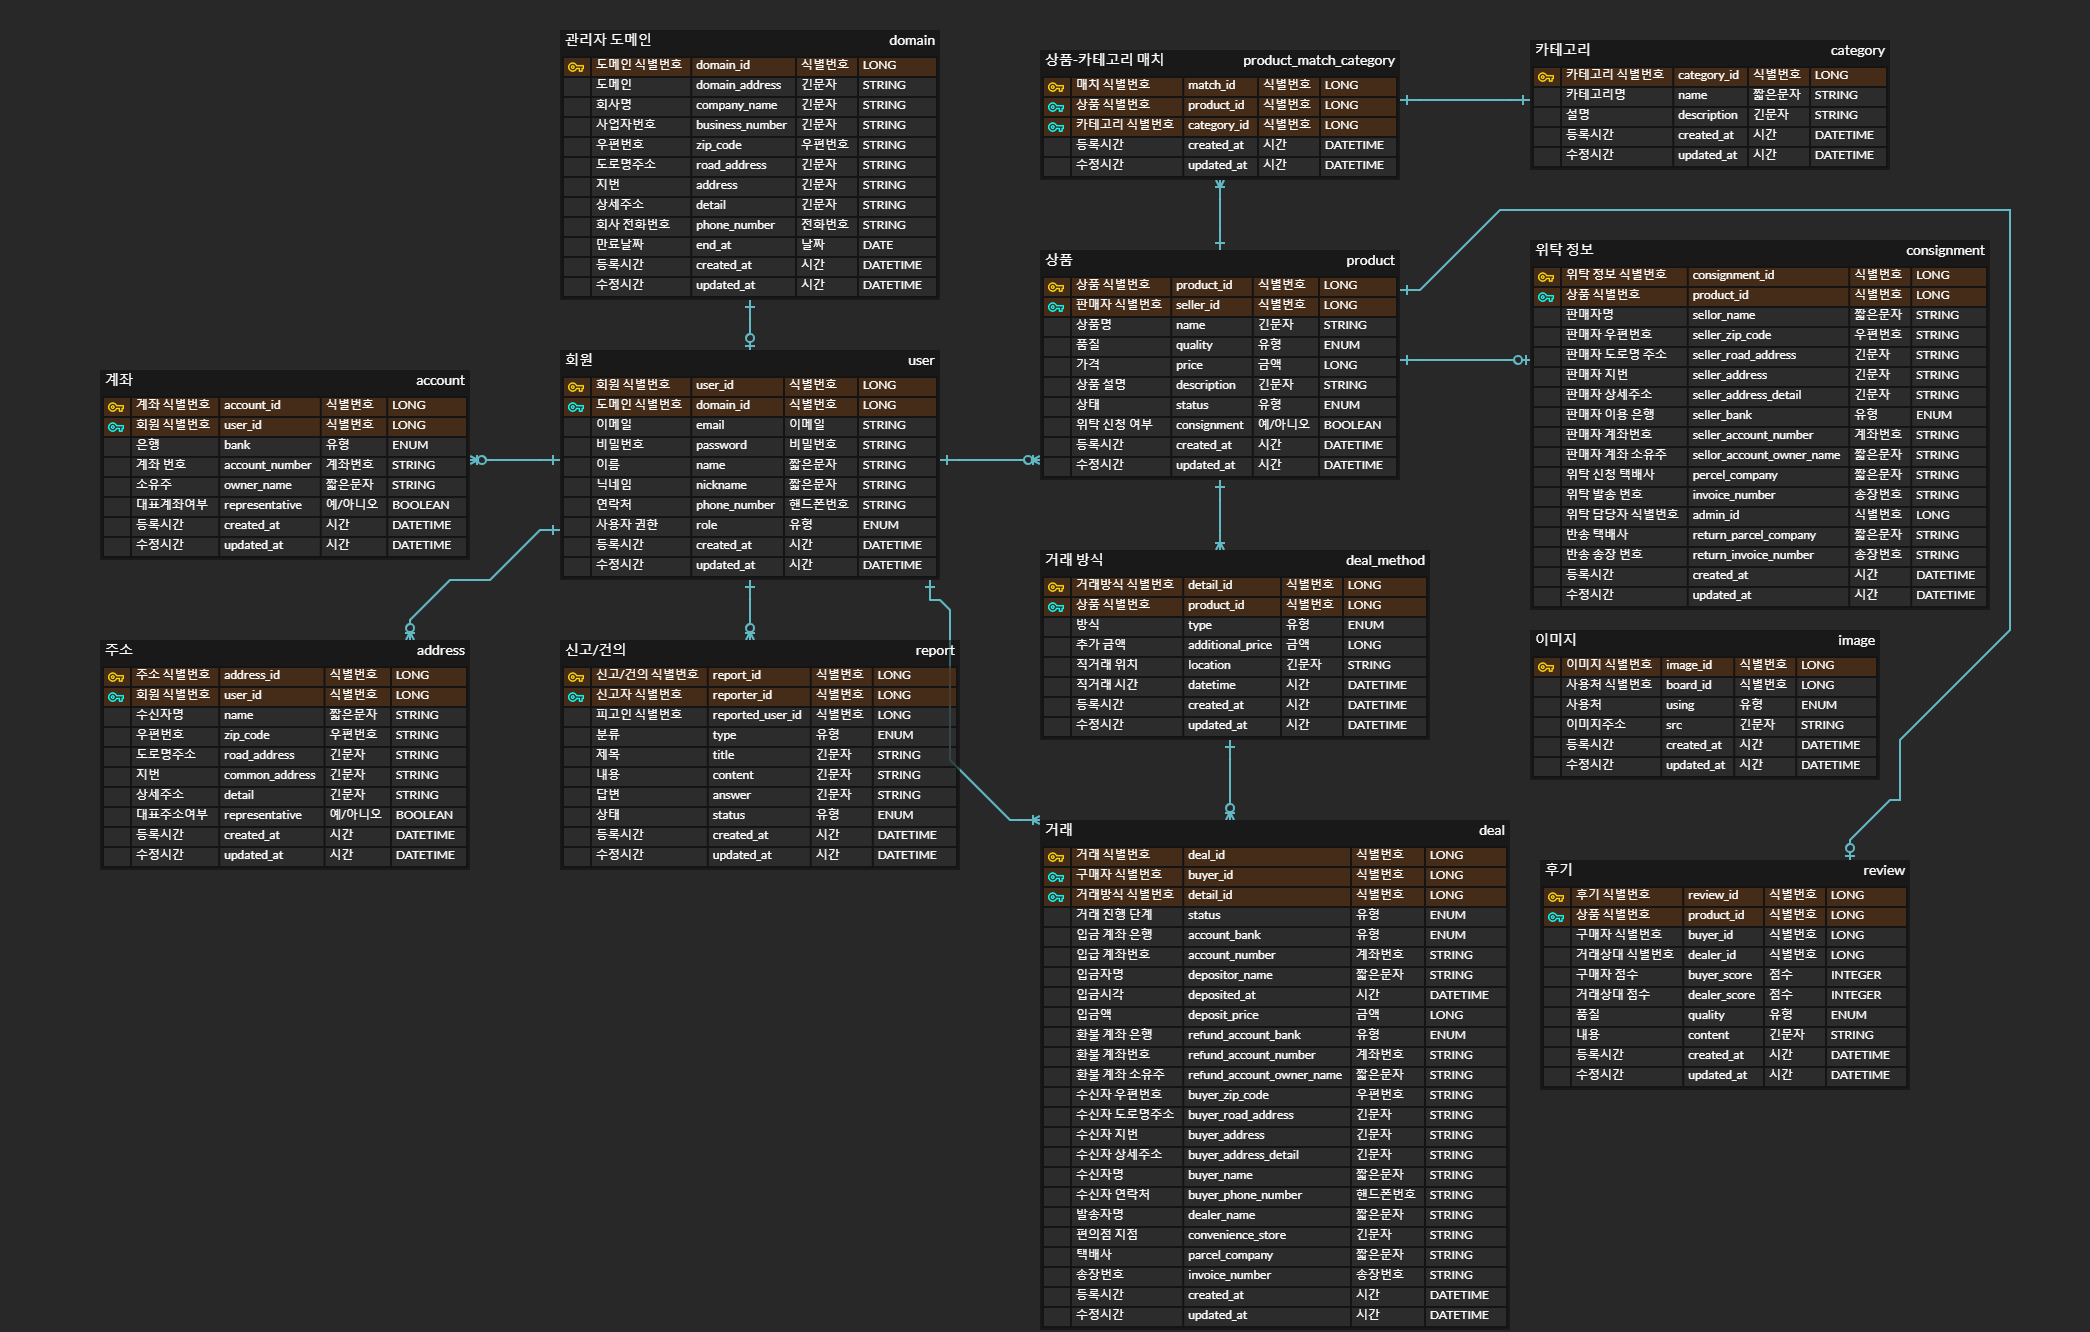
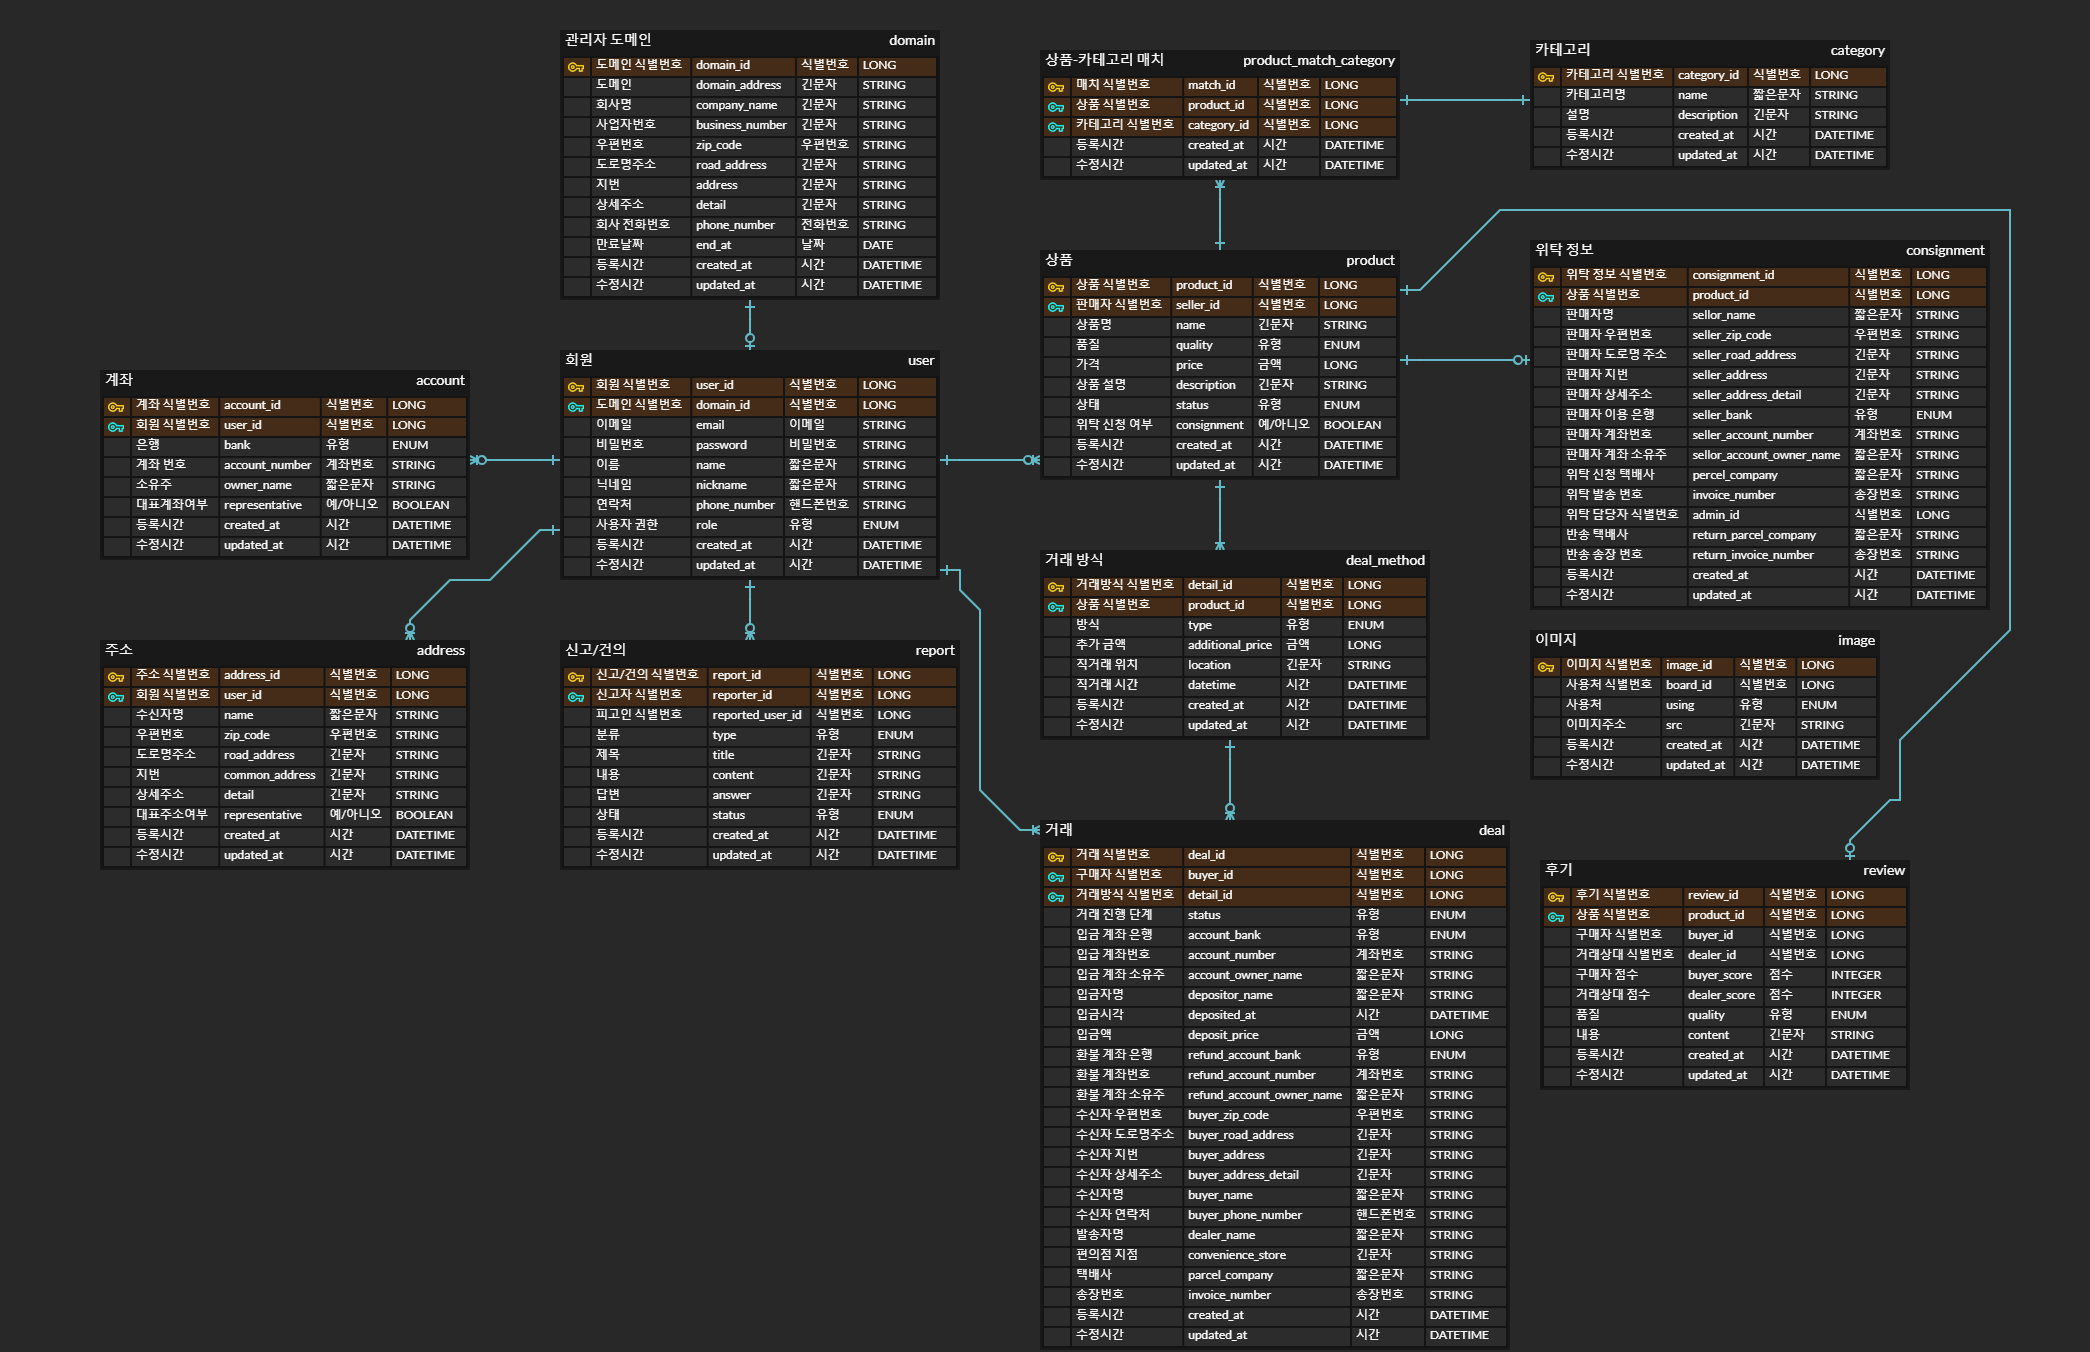
docs: 빠진 엔티티 정보 문서에 추가

diff --git a/README.md b/README.md
@@ -248,15 +248,15 @@
             - 직거래 위치, 시간
         - 거래 방식이 택배인 경우 추가 조회 정보:
             - 판매 담당자의 계좌 번호 리스트(입금 확인(CONFIRMED), 배송 진행중(SHIPPING), 환불(REFUNDED) 상태에선 null 반환)
-            - 입금 정보(입금 계좌 은행, 입금 계좌번호, 입금자명, 입금시각, 입금액)
+            - 입금 정보(입금 계좌 은행, 입금 계좌번호, 입금 계좌 소유주, 입금자명, 입금시각, 입금액)
             - 입금 완료(DEPOSITED), 입금 확인(CONFIRMED), 배송 진행중(SHIPPING) 상태일 시 환불 정보(환불 계좌 은행, 환불 계좌번호, 환불 계좌 소유주)
-            - 입금 확인(CONFIRMED), 배송 진행중(SHIPPING) 상태일 시 수신 정보(수신자명, 수신자 우편번호, 수신자 도로명주소, 수신자 지번, 수신자 상세주소, 수신자 연락처)
+            - 입금 완료(DEPOSITED), 입금 확인(CONFIRMED), 배송 진행중(SHIPPING) 상태일 시 수신 정보(수신자명, 수신자 우편번호, 수신자 도로명주소, 수신자 지번, 수신자 상세주소, 수신자 연락처)
             - 발송 정보(발송자명, 택배사, 송장번호)
         - 거래 방식이 반값 택배인 경우 추가 조회 정보:
             - 판매 담당자의 계좌 번호 리스트(입금 확인(CONFIRMED), 배송 진행중(SHIPPING), 환불(REFUNDED) 상태에선 null 반환)
-            - 입금 정보(입금 계좌 은행, 입금 계좌번호, 입금자명, 입금시각, 입금액)
+            - 입금 정보(입금 계좌 은행, 입금 계좌번호, 입금 계좌 소유주, 입금자명, 입금시각, 입금액)
             - 입금 완료(DEPOSITED), 입금 확인(CONFIRMED), 배송 진행중(SHIPPING) 상태일 시 환불 정보(환불 계좌 은행, 환불 계좌번호, 환불 계좌 소유주)
-            - 입금 확인(CONFIRMED), 배송 진행중(SHIPPING) 상태일 시 수신자 정보(수신자명, 편의점 지점)
+            - 입금 완료(DEPOSITED), 입금 확인(CONFIRMED), 배송 진행중(SHIPPING) 상태일 시 수신자 정보(수신자명, 편의점 지점)
             - 발송 정보(송장번호)
     - 담당자의 거래 승인
         - 필요 입력 정보: 거래 식별 번호
